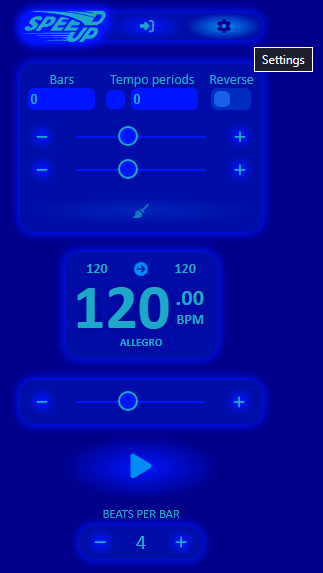
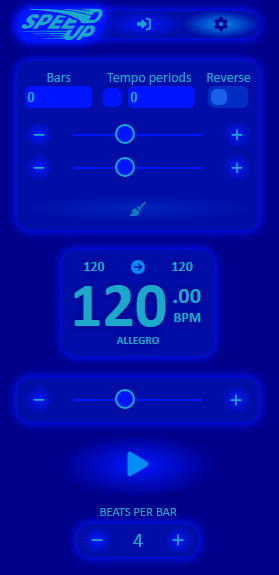
docs: update screenshot width in README to 500

Changed region(s): [[0.0573, 0.356, 0.9749, 0.8604], [0.0573, 0.0, 0.9749, 0.4154], [0.2294, 0.8604, 0.7455, 1.0]]

diff --git a/README.md b/README.md
@@ -68,13 +68,17 @@ Some critical logic is intentionally removed for intellectual property protectio
 
 🖼 Screenshots
 
-![Main Page](screenshots/speedup_main.png)
+### Main Page
+<img src="screenshots/speedup_main.png" alt="Main Page" width="500"/>
 
-![Settings Page](screenshots/speedup_settings.png)
+### Settings Page
+<img src="screenshots/speedup_settings.png" alt="Settings Page" width="500"/>
 
-![Login and Registration Page](screenshots/speedup_training.png)
+### Login and Registration
+<img src="screenshots/speedup_training.png" alt="Login and Registration Page" width="500"/>
 
-![Presets Page](screenshots/speedup_presets.png)
+### Presets Page
+<img src="screenshots/speedup_presets.png" alt="Presets Page" width="500"/>
 
 ---
 
